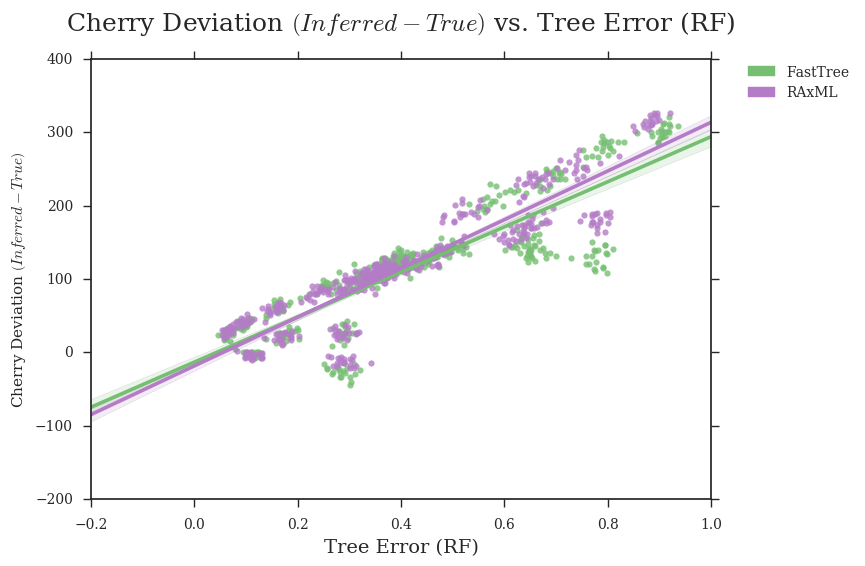
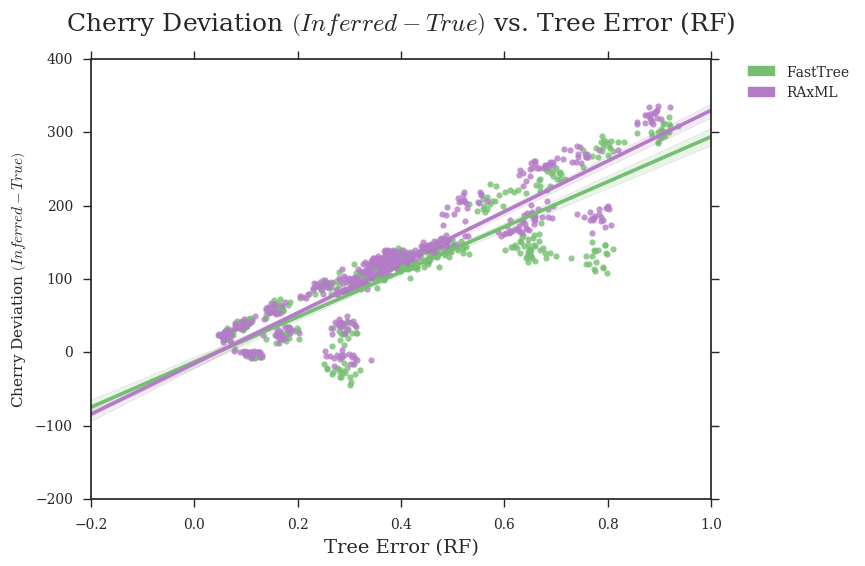
Update figure using RAxML trees with support

Changed region(s): [[0.2497, 0.1802, 0.8428, 0.6608], [0.1561, 0.6307, 0.2497, 0.6908], [0.1249, 0.6908, 0.1561, 0.7208]]

diff --git a/figures/scripts/4_cherry-deviation-vs-tree-error-rf.py b/figures/scripts/4_cherry-deviation-vs-tree-error-rf.py
@@ -20,13 +20,22 @@ handles = [Patch(color=pal['fasttree'],label='FastTree'),Patch(color=pal['raxml'
 
 # DATASETS
 rf_fasttree    = [0.37315,0.39425,0.37025,0.3995,0.4079,0.3756,0.395,0.3726,0.37335,0.35715,0.38635,0.4065,0.3545,0.37955,0.34945,0.3971,0.38635,0.3948,0.3593,0.3653,0.102,0.1193,0.11625,0.10025,0.1028,0.13035,0.1124,0.10325,0.0782,0.0948,0.1223,0.1173,0.1114,0.12385,0.11125,0.11785,0.0995,0.1203,0.12805,0.0998,0.15855,0.16415,0.16615,0.18365,0.1981,0.1724,0.1644,0.1391,0.17215,0.1997,0.18295,0.17725,0.17055,0.1594,0.2023,0.18245,0.1941,0.17,0.18195,0.177,0.66145,0.667,0.6911,0.6876,0.7166,0.69355,0.70735,0.69375,0.70215,0.6688,0.6801,0.7001,0.7065,0.68185,0.66885,0.7098,0.66965,0.75175,0.70865,0.68265,0.897,0.905025,0.92072,0.905995,0.909815,0.88575,0.91898,0.90547,0.91822,0.8837,0.901105,0.93532,0.8977,0.90765,0.915855,0.91843,0.90247,0.91111,0.910415,0.8968,0.3631,0.318,0.32665,0.33285,0.3579,0.3499,0.342,0.33565,0.3009,0.3571,0.3089,0.3671,0.34285,0.321,0.3079,0.3159,0.2959,0.322,0.3009,0.32265,0.331,0.36275,0.31375,0.338,0.3082,0.32075,0.31345,0.2801,0.33665,0.33755,0.36145,0.328,0.3285,0.334,0.31575,0.34255,0.32045,0.35755,0.325,0.3024,0.525,0.5309,0.48125,0.5103,0.4868,0.51635,0.49665,0.5192,0.4519,0.49315,0.4857,0.474,0.4684,0.4994,0.4765,0.50275,0.4598,0.49255,0.49445,0.45015,0.65965,0.66925,0.6423,0.64885,0.68815,0.651,0.68,0.65045,0.6474,0.69925,0.6665,0.6534,0.6322,0.6666,0.65965,0.6452,0.65705,0.65555,0.67875,0.6755,0.77405,0.7954,0.7778,0.7763,0.7989,0.78115,0.77405,0.7914,0.72955,0.7962,0.7691,0.79815,0.7902,0.77555,0.7581,0.7583,0.8095,0.7644,0.76895,0.79525,0.6435,0.6201,0.64675,0.6294,0.61235,0.6452,0.65055,0.63375,0.63705,0.65075,0.6253,0.64825,0.64485,0.62945,0.67165,0.6381,0.6013,0.6241,0.61605,0.65695,0.4508,0.4718,0.49245,0.46975,0.45675,0.47835,0.5194,0.4673,0.4594,0.47045,0.46545,0.45465,0.4382,0.4952,0.44265,0.4987,0.49975,0.50905,0.501,0.45685,0.2457,0.24585,0.2446,0.24895,0.2743,0.25525,0.2337,0.2051,0.26905,0.24525,0.28045,0.24735,0.2508,0.26545,0.2578,0.26125,0.2223,0.2739,0.2548,0.2594,0.1385,0.13835,0.1534,0.1534,0.15855,0.18105,0.1674,0.1634,0.1654,0.1846,0.1694,0.1624,0.16005,0.1671,0.16055,0.15095,0.1714,0.1595,0.1725,0.1625,0.10725,0.10825,0.1063,0.10625,0.0903,0.0943,0.0893,0.0903,0.11225,0.0903,0.0812,0.0832,0.09425,0.0953,0.08525,0.0993,0.0963,0.10425,0.1013,0.0752,0.06215,0.06015,0.0602,0.0572,0.05815,0.06015,0.0632,0.07415,0.07315,0.0461,0.0642,0.0622,0.0682,0.0682,0.0632,0.0622,0.0622,0.05515,0.06115,0.0682,0.41725,0.43145,0.4223,0.41265,0.4316,0.4441,0.42755,0.38405,0.41855,0.4183,0.44405,0.41245,0.4075,0.3714,0.4224,0.4,0.45145,0.4207,0.41735,0.396,0.4107,0.3961,0.39445,0.39655,0.4254,0.39275,0.42315,0.4045,0.4078,0.4024,0.3673,0.39365,0.39815,0.41175,0.4014,0.45175,0.43045,0.45575,0.3931,0.4191,0.3578,0.3814,0.36415,0.331,0.35295,0.41345,0.3951,0.4149,0.3967,0.3804,0.39585,0.398,0.3693,0.4057,0.3632,0.3576,0.38825,0.4029,0.38875,0.3983,0.3605,0.3683,0.38515,0.35425,0.39505,0.3646,0.33185,0.38665,0.39235,0.3704,0.42215,0.3831,0.3638,0.40885,0.36685,0.418,0.34975,0.35415,0.3489,0.3556,0.4001,0.37855,0.36955,0.4024,0.37725,0.38615,0.35245,0.3933,0.3942,0.3745,0.38445,0.3762,0.39205,0.37115,0.4006,0.38395,0.38695,0.368,0.38755,0.36195,0.2575,0.25035,0.28145,0.32125,0.2951,0.30835,0.27525,0.3011,0.26855,0.2879,0.30305,0.28135,0.2904,0.31105,0.267,0.29065,0.30185,0.28325,0.28025,0.257,0.26925,0.28035,0.29195,0.29485,0.289,0.2834,0.2664,0.29245,0.29715,0.30455,0.28255,0.2912,0.2964,0.2895,0.3083,0.3139,0.29035,0.31225,0.28495,0.28515,0.53135,0.56625,0.5725,0.58325,0.6014,0.57525,0.5713,0.5811,0.6106,0.62735,0.64245,0.54615,0.55945,0.5974,0.56325,0.6185,0.56005,0.58875,0.56725,0.5586,0.7904,0.8324,0.75215,0.7813,0.85645,0.8054,0.7884,0.7934,0.8074,0.8104,0.8195,0.7864,0.7773,0.7894,0.8023,0.7994,0.7934,0.7702,0.7573,0.8012]
+rf_raxml       = [0.334,0.3579,0.3529,0.37695,0.3691,0.3671,0.3811,0.3661,0.34385,0.339,0.3681,0.3872,0.336,0.3691,0.335,0.38295,0.3569,0.39,0.34285,0.3619,0.09925,0.11025,0.10925,0.09725,0.10125,0.12735,0.11025,0.10125,0.0762,0.08925,0.1223,0.11425,0.10725,0.12735,0.11625,0.11025,0.0993,0.1243,0.13135,0.09525,0.1634,0.1594,0.1594,0.17545,0.1855,0.1674,0.1654,0.1334,0.1604,0.1895,0.17995,0.1714,0.1594,0.1554,0.2035,0.1664,0.1845,0.1654,0.1815,0.17645,0.6286,0.6359,0.6306,0.668,0.6901,0.674,0.663,0.659,0.651,0.6496,0.657,0.65965,0.678,0.6489,0.6419,0.682,0.6369,0.6951,0.6881,0.653,0.8576,0.8917,0.8887,0.8877,0.8826,0.8716,0.90271,0.8947,0.8957,0.8566,0.8816,0.91976,0.8837,0.8857,0.8927,0.8977,0.8826,0.8806,0.8756,0.8726,0.336,0.2999,0.2899,0.31575,0.32585,0.3198,0.3049,0.3079,0.2909,0.344,0.3129,0.337,0.33185,0.2949,0.2738,0.3139,0.2788,0.2869,0.2869,0.335,0.2929,0.342,0.2807,0.30775,0.2859,0.2827,0.2757,0.2648,0.3009,0.29175,0.317,0.3109,0.30275,0.324,0.28575,0.31475,0.29975,0.31175,0.2879,0.26465,0.5236,0.53035,0.4822,0.48725,0.4762,0.5243,0.4774,0.5055,0.4403,0.4895,0.4744,0.45065,0.45815,0.4875,0.4684,0.48725,0.4431,0.4654,0.4814,0.45115,0.65865,0.673,0.6439,0.658,0.6941,0.657,0.6931,0.65965,0.651,0.6841,0.65565,0.65815,0.6356,0.66465,0.654,0.6339,0.6379,0.651,0.68475,0.6827,0.78245,0.8014,0.7723,0.7549,0.7944,0.7649,0.7703,0.7864,0.74035,0.798,0.784,0.7964,0.8064,0.7914,0.7734,0.7659,0.802,0.787,0.7699,0.77595,0.6309,0.5938,0.6419,0.6105,0.5998,0.6286,0.6349,0.62055,0.6399,0.6436,0.611,0.6155,0.6486,0.6105,0.651,0.6095,0.5878,0.6035,0.6058,0.6266,0.4363,0.4604,0.4564,0.4491,0.4351,0.4634,0.4875,0.45015,0.4343,0.4524,0.4383,0.4323,0.4423,0.4845,0.4263,0.4694,0.4664,0.49125,0.4855,0.4351,0.2297,0.2326,0.2297,0.2317,0.25765,0.2436,0.2165,0.2105,0.2497,0.2406,0.2528,0.2347,0.2207,0.2487,0.2407,0.2476,0.2046,0.25765,0.2367,0.2407,0.1173,0.13535,0.14335,0.14935,0.13935,0.1704,0.1554,0.1574,0.1544,0.1755,0.1554,0.14735,0.1484,0.1535,0.14735,0.13935,0.1654,0.1434,0.1595,0.1454,0.09625,0.10025,0.1013,0.10825,0.0873,0.0893,0.0923,0.0873,0.11225,0.0792,0.0782,0.0792,0.08425,0.0812,0.0782,0.0943,0.0933,0.09625,0.0933,0.07015,0.06415,0.05515,0.0552,0.0512,0.05615,0.05715,0.0622,0.06415,0.06815,0.0481,0.0572,0.0582,0.0672,0.0692,0.0582,0.0582,0.0562,0.0481,0.06415,0.0612,0.3831,0.4213,0.392,0.3771,0.4032,0.4132,0.4112,0.3669,0.3952,0.395,0.411,0.3771,0.37795,0.3529,0.4052,0.393,0.4112,0.4112,0.3721,0.3751,0.385,0.37695,0.387,0.392,0.4032,0.3842,0.3922,0.3719,0.37895,0.3811,0.3591,0.3711,0.38345,0.3761,0.3691,0.4092,0.3872,0.4193,0.38095,0.3801,0.339,0.3679,0.344,0.33,0.33685,0.3902,0.3709,0.3852,0.3741,0.3529,0.3639,0.3872,0.3629,0.3942,0.34,0.33085,0.3731,0.3591,0.3609,0.3601,0.332,0.3509,0.37595,0.32685,0.3681,0.3519,0.3228,0.3791,0.3621,0.3509,0.396,0.3629,0.3521,0.37595,0.3541,0.384,0.342,0.335,0.33585,0.33285,0.3842,0.3531,0.3561,0.386,0.3501,0.3709,0.3501,0.3751,0.3761,0.3711,0.3579,0.3531,0.3591,0.346,0.3831,0.3761,0.348,0.34585,0.3721,0.33285,0.25565,0.25265,0.27065,0.34285,0.29975,0.30675,0.28375,0.31175,0.26965,0.28875,0.30675,0.28675,0.28575,0.31575,0.2827,0.30575,0.30175,0.2757,0.2817,0.26165,0.2767,0.2827,0.28675,0.29575,0.28975,0.2797,0.26465,0.28675,0.29675,0.29675,0.26565,0.28575,0.30775,0.27165,0.31375,0.31075,0.28575,0.30275,0.2817,0.2797,0.4895,0.5216,0.5276,0.5193,0.5557,0.51025,0.5256,0.5125,0.5496,0.5557,0.5664,0.4865,0.5226,0.5517,0.5165,0.5527,0.5085,0.5216,0.5035,0.4794,0.7262,0.7603,0.6861,0.7422,0.8195,0.7482,0.7161,0.7422,0.7613,0.7563,0.7462,0.7131,0.7021,0.7302,0.7823,0.7583,0.7402,0.6951,0.679,0.7392]
+''' # VALUES FROM ORIGINAL RAXML TREES
 rf_raxml       = [0.335,0.34185,0.3509,0.3689,0.3701,0.3661,0.3751,0.3611,0.34485,0.34,0.3541,0.3862,0.341,0.3671,0.329,0.388,0.3499,0.399,0.34685,0.3619,0.10825,0.11525,0.11025,0.09825,0.10025,0.13035,0.11525,0.11125,0.0832,0.09725,0.1243,0.10425,0.10925,0.13035,0.12835,0.11225,0.1083,0.12835,0.12935,0.09725,0.1704,0.1654,0.1614,0.1875,0.17645,0.1704,0.17545,0.1354,0.1644,0.1865,0.185,0.1684,0.1654,0.1544,0.2035,0.1574,0.1875,0.1724,0.1896,0.1875,0.62255,0.6379,0.6256,0.662,0.674,0.655,0.6499,0.66,0.652,0.6376,0.659,0.6486,0.673,0.6429,0.6359,0.68,0.6279,0.6941,0.6851,0.6469,0.8495,0.8957,0.8847,0.8847,0.8867,0.8676,0.8997,0.8937,0.8907,0.8536,0.8826,0.91976,0.8786,0.8857,0.8897,0.8947,0.8806,0.8816,0.8706,0.8716,0.336,0.2969,0.2959,0.3198,0.31575,0.3178,0.3089,0.3119,0.2989,0.348,0.3139,0.333,0.33385,0.3049,0.2758,0.3099,0.2869,0.2919,0.2859,0.344,0.2989,0.348,0.28875,0.30375,0.2919,0.29075,0.2807,0.2678,0.2889,0.29475,0.322,0.32,0.30875,0.323,0.28475,0.30975,0.30275,0.31175,0.2818,0.27265,0.5155,0.5203,0.4762,0.4812,0.46315,0.5213,0.4604,0.4945,0.4323,0.4724,0.4714,0.4446,0.46215,0.4694,0.4524,0.48925,0.4311,0.4724,0.4814,0.4461,0.65265,0.672,0.6389,0.652,0.6941,0.652,0.6861,0.65665,0.6449,0.681,0.6406,0.66315,0.6336,0.65465,0.6469,0.6239,0.6389,0.6449,0.6807,0.67465,0.77845,0.8044,0.7683,0.7549,0.7954,0.7709,0.7803,0.7803,0.74735,0.796,0.786,0.7964,0.8014,0.7854,0.7704,0.7699,0.805,0.77995,0.7689,0.77595,0.6279,0.5898,0.6369,0.6085,0.5988,0.62255,0.6319,0.6075,0.6379,0.6446,0.611,0.61655,0.6426,0.6145,0.651,0.6085,0.5807,0.5975,0.5988,0.61655,0.4343,0.4504,0.4544,0.4381,0.4361,0.4604,0.4704,0.4431,0.4243,0.4393,0.4433,0.4293,0.4393,0.4865,0.4233,0.4684,0.4554,0.4792,0.4855,0.4301,0.2247,0.2316,0.2377,0.2287,0.25965,0.2406,0.21755,0.2165,0.2578,0.2336,0.2367,0.2377,0.2237,0.2588,0.2518,0.2476,0.2056,0.2486,0.2427,0.2297,0.13035,0.13735,0.14635,0.1564,0.14235,0.1714,0.1644,0.1644,0.1674,0.1735,0.1614,0.1584,0.1464,0.1615,0.1584,0.14035,0.1684,0.1434,0.1605,0.1464,0.10125,0.10125,0.0983,0.10925,0.0903,0.0983,0.0913,0.0923,0.11625,0.0863,0.08825,0.09025,0.09425,0.0903,0.0832,0.1013,0.1033,0.09725,0.1003,0.07415,0.06915,0.06415,0.0582,0.0572,0.05315,0.06515,0.0692,0.06715,0.0802,0.0542,0.0692,0.0672,0.0722,0.0752,0.0612,0.0622,0.0662,0.05715,0.0752,0.0692,0.3751,0.4112,0.385,0.3912,0.3912,0.4102,0.4142,0.3539,0.3882,0.386,0.405,0.3751,0.386,0.34585,0.4042,0.39,0.4092,0.4052,0.3641,0.3671,0.3749,0.3609,0.38195,0.393,0.4092,0.3761,0.3852,0.3649,0.3749,0.3831,0.3591,0.3801,0.38345,0.3701,0.3621,0.4042,0.3892,0.4183,0.37595,0.3721,0.345,0.3599,0.332,0.336,0.34285,0.3831,0.3729,0.3852,0.3641,0.3539,0.3669,0.3741,0.3549,0.3831,0.337,0.33385,0.3661,0.3601,0.3659,0.3611,0.326,0.33985,0.3669,0.32785,0.3651,0.34685,0.32785,0.3711,0.3671,0.33885,0.385,0.3499,0.344,0.37795,0.3631,0.3699,0.346,0.322,0.33585,0.3238,0.3771,0.3551,0.347,0.37995,0.3521,0.3689,0.3641,0.3561,0.3761,0.3721,0.3519,0.3571,0.3521,0.344,0.3731,0.3691,0.344,0.34885,0.3611,0.33385,0.26465,0.25865,0.2767,0.34285,0.30675,0.30175,0.2827,0.30575,0.2767,0.28875,0.31375,0.28875,0.28375,0.30975,0.28975,0.30175,0.30175,0.2787,0.2827,0.26865,0.26965,0.28575,0.29175,0.29175,0.29475,0.27365,0.26265,0.2777,0.29075,0.29675,0.2757,0.2787,0.31275,0.27165,0.31375,0.29875,0.28775,0.3178,0.2787,0.27165,0.4835,0.5145,0.5246,0.5183,0.5507,0.50525,0.5346,0.5125,0.5406,0.5537,0.5674,0.4814,0.5176,0.5496,0.5206,0.5486,0.5035,0.5176,0.5025,0.4784,0.7252,0.7583,0.678,0.7392,0.8215,0.7402,0.7021,0.7432,0.7513,0.7593,0.7442,0.7172,0.7081,0.7352,0.7854,0.7543,0.7392,0.6861,0.666,0.7392]
+'''
 
 ratio_fasttree = [2.36363636364,2.24175824176,2.4,2.43181818182,2.47674418605,2.4,2.4,2.15384615385,2.25,2.09574468085,2.6,2.51724137931,2.0,2.39534883721,2.05,2.46590909091,2.40659340659,2.30769230769,2.18367346939,2.18888888889,0.984894259819,0.996932515337,0.97619047619,0.994117647059,1.0,0.981981981982,0.994202898551,0.996932515337,1.01488095238,1.00304878049,1.00313479624,0.994047619048,1.00306748466,1.0,1.0,0.975903614458,0.994029850746,1.00302114804,0.98125,1.0,1.05652173913,1.10084033613,1.08849557522,1.08154506438,1.14666666667,1.100456621,1.12037037037,1.08219178082,1.09777777778,1.13574660633,1.15668202765,1.07142857143,1.12107623318,1.11415525114,1.08108108108,1.14155251142,1.13615023474,1.08,1.11111111111,1.1135371179,7.90909090909,9.39285714286,10.4230769231,8.56666666667,10.48,8.96774193548,8.18181818182,9.60714285714,8.375,8.8275862069,9.92857142857,9.65517241379,10.8,9.22222222222,8.86666666667,8.83870967742,7.875,10.3703703704,10.1111111111,10.1481481481,21.4285714286,25.6666666667,45.0,30.4,32.3,25.5833333333,39.875,31.2,41.125,26.0,21.8571428571,45.1428571429,23.0769230769,35.6666666667,38.75,38.5,31.4,34.3333333333,33.7777777778,28.2727272727,2.44318181818,2.15909090909,2.17582417582,1.94897959184,2.27906976744,2.11111111111,2.08163265306,1.99056603774,1.96875,2.21686746988,1.88541666667,2.43373493976,2.1724137931,1.9387755102,1.86734693878,2.09473684211,2.0,1.89583333333,1.87128712871,1.97826086957,2.01030927835,2.48235294118,2.17391304348,2.33333333333,2.42857142857,2.18085106383,1.91666666667,1.94845360825,2.06818181818,2.11827956989,2.425,2.02040816327,2.01052631579,2.1978021978,1.9,2.10989010989,2.2183908046,2.29885057471,2.07777777778,1.98979591837,2.57142857143,2.50561797753,2.52222222222,2.70731707317,2.46808510638,2.92405063291,2.69135802469,2.52808988764,2.46739130435,2.51648351648,2.47777777778,2.24731182796,2.37894736842,2.57608695652,2.5,2.52127659574,2.49450549451,2.44444444444,2.63953488372,2.35106382979,2.64772727273,2.57303370787,2.43820224719,2.55172413793,2.52808988764,2.51724137931,2.43820224719,2.63953488372,2.61176470588,2.51724137931,2.6170212766,2.53571428571,2.80722891566,2.89411764706,2.4880952381,2.41379310345,2.6976744186,2.85714285714,2.6265060241,2.59550561798,2.57303370787,2.55319148936,2.32258064516,2.48387096774,2.125,2.54444444444,2.14141414141,2.20833333333,2.43820224719,2.53409090909,2.51724137931,2.69620253165,2.19791666667,2.15625,2.38947368421,2.375,2.74074074074,2.30107526882,2.77647058824,2.61538461538,2.41935483871,2.61538461538,2.60869565217,2.67032967033,2.58888888889,2.55681818182,2.32,2.80459770115,2.79775280899,2.57303370787,2.96470588235,2.4387755102,2.77011494253,2.58139534884,3.04651162791,2.64772727273,2.57954545455,2.51063829787,2.57142857143,2.81818181818,2.43023255814,2.54022988506,2.69047619048,2.42857142857,2.40217391304,2.79310344828,2.48421052632,2.55913978495,2.70731707317,2.55555555556,2.4,2.36263736264,2.42857142857,2.61797752809,2.63095238095,2.86585365854,2.52083333333,2.69411764706,2.55913978495,2.34736842105,1.96590909091,2.04651162791,2.02272727273,2.2375,2.03191489362,2.0,1.83333333333,1.77894736842,2.03296703297,1.9347826087,2.375,2.0,2.02222222222,1.78431372549,2.08333333333,2.0,1.81443298969,1.94444444444,2.07865168539,2.10465116279,1.64556962025,1.5,1.75,1.77173913043,1.64772727273,1.67368421053,1.64,1.59574468085,1.8488372093,1.79310344828,1.71428571429,1.70786516854,1.61,1.64444444444,1.57731958763,1.65555555556,1.64367816092,1.71276595745,1.69879518072,1.58241758242,1.55952380952,1.44086021505,1.44565217391,1.44210526316,1.37362637363,1.39772727273,1.45652173913,1.34408602151,1.52325581395,1.44705882353,1.34736842105,1.47777777778,1.37804878049,1.44047619048,1.36170212766,1.35353535354,1.48837209302,1.58441558442,1.37894736842,1.24210526316,1.35897435897,1.3152173913,1.18947368421,1.25287356322,1.18085106383,1.34523809524,1.27659574468,1.31818181818,1.36904761905,1.24742268041,1.3488372093,1.25301204819,1.27835051546,1.18390804598,1.33673469388,1.18556701031,1.23529411765,1.3,1.30769230769,1.3875,2.30107526882,2.38636363636,2.27472527473,2.23655913978,2.2808988764,2.55,2.3488372093,2.35164835165,2.38095238095,2.39534883721,2.25806451613,2.48913043478,2.10576923077,2.31578947368,2.53409090909,2.57303370787,2.30107526882,2.57142857143,2.05208333333,2.44444444444,2.47058823529,2.26086956522,2.4578313253,2.25842696629,2.54320987654,2.19587628866,2.32978723404,2.22105263158,2.27173913043,2.27083333333,2.13333333333,2.44186046512,2.37037037037,2.41176470588,2.47674418605,2.45977011494,2.23157894737,2.55681818182,2.40909090909,2.59036144578,2.2688172043,2.35294117647,2.39130434783,2.15384615385,2.16666666667,2.39024390244,2.6511627907,2.49411764706,2.91666666667,2.31868131868,2.43820224719,2.47126436782,2.20618556701,2.58974358974,2.20212765957,2.34482758621,2.37362637363,2.5,2.71052631579,2.31034482759,2.2,2.37209302326,2.47191011236,2.27777777778,2.34523809524,2.42528735632,2.24390243902,2.27173913043,2.34523809524,2.32954545455,2.50561797753,2.38461538462,2.37777777778,2.25263157895,2.33695652174,2.77333333333,2.25274725275,2.0404040404,2.34444444444,2.15789473684,2.3,2.44186046512,2.62025316456,2.30769230769,2.42168674699,2.41666666667,2.34482758621,2.3595505618,2.4347826087,2.24175824176,2.26804123711,2.26373626374,2.375,2.26041666667,2.44086021505,2.20618556701,2.43820224719,1.92452830189,2.44578313253,2.27906976744,0.931547619048,0.949843260188,0.903225806452,0.92899408284,0.932307692308,0.950464396285,0.935975609756,0.895061728395,0.917431192661,0.926035502959,0.877976190476,0.918181818182,0.952978056426,0.910714285714,0.90990990991,0.917159763314,0.867469879518,0.898203592814,0.933717579251,0.936555891239,1.15,1.125,1.15021459227,1.19111111111,1.04310344828,1.11764705882,1.0407239819,1.11659192825,1.08482142857,1.11304347826,1.07264957265,1.12385321101,1.13043478261,1.17431192661,1.16740088106,1.11894273128,1.11013215859,1.11255411255,1.17040358744,1.11415525114,6.61111111111,6.88888888889,6.61111111111,8.56666666667,9.42307692308,9.28,7.76470588235,7.46875,8.12903225806,8.4,9.34615384615,7.43333333333,7.53125,7.0303030303,6.81818181818,9.72,6.71428571429,8.41379310345,6.41666666667,7.125,24.3333333333,36.875,31.6666666667,30.5555555556,30.9,26.2727272727,27.8181818182,27.0,29.8,28.5,32.8888888889,27.0909090909,26.3636363636,26.0,32.3333333333,32.8888888889,42.2857142857,20.1428571429,25.1818181818,30.8888888889]
+ratio_raxml    = [2.26136363636,2.36263736264,2.33333333333,2.44318181818,2.45348837209,2.53333333333,2.38888888889,2.10989010989,2.27173913043,2.21276595745,2.57647058824,2.58620689655,2.23863636364,2.39534883721,2.11,2.40909090909,2.2967032967,2.2967032967,2.21428571429,2.22222222222,1.0,0.98773006135,0.982142857143,0.988235294118,0.994252873563,0.978978978979,0.994202898551,1.00306748466,1.00595238095,1.0,1.00313479624,0.988095238095,1.0,1.0,1.00606060606,0.975903614458,1.0,0.996978851964,0.990625,1.00607902736,1.05652173913,1.10924369748,1.09734513274,1.08583690987,1.14666666667,1.10502283105,1.11574074074,1.1095890411,1.09777777778,1.13574660633,1.16129032258,1.08035714286,1.14349775785,1.10502283105,1.11711711712,1.13242009132,1.12676056338,1.08,1.13777777778,1.14847161572,8.33333333333,9.75,10.5384615385,9.36666666667,11.32,9.09677419355,8.60606060606,10.1785714286,9.0625,9.31034482759,10.3214285714,10.0,11.24,10.2592592593,8.8,9.25806451613,8.09375,10.5925925926,10.6296296296,10.2962962963,23.4285714286,28.25,47.5714285714,32.2,33.0,27.0833333333,40.75,32.9,42.375,27.0,24.2142857143,48.8571428571,25.1538461538,36.1111111111,42.125,43.0,32.9,38.1111111111,36.8888888889,30.3636363636,2.29545454545,2.125,2.14285714286,1.94897959184,2.11627906977,2.03333333333,1.97959183673,1.93396226415,1.90625,2.21686746988,1.90625,2.36144578313,2.09195402299,1.85714285714,1.81632653061,2.07368421053,1.92941176471,1.85416666667,1.84158415842,1.9347826087,1.98969072165,2.42352941176,2.09782608696,2.1724137931,2.34523809524,2.04255319149,1.89583333333,1.98969072165,1.98863636364,2.08602150538,2.4125,2.01020408163,2.05263157895,2.18681318681,1.84,2.12087912088,2.1724137931,2.18390804598,2.05555555556,1.90816326531,2.74725274725,2.77528089888,2.92222222222,2.79268292683,2.63829787234,3.26582278481,2.79012345679,2.66292134831,2.5652173913,2.62637362637,2.58888888889,2.55913978495,2.55789473684,2.73913043478,2.5625,2.6170212766,2.64835164835,2.52222222222,2.81395348837,2.55319148936,3.11363636364,3.07865168539,3.13483146067,3.13793103448,3.24719101124,3.06896551724,3.05617977528,3.10465116279,3.21176470588,3.11494252874,2.96808510638,3.08333333333,3.1686746988,3.29411764706,3.27380952381,3.04597701149,3.17441860465,3.39285714286,3.36144578313,3.31460674157,3.20224719101,3.1170212766,2.93548387097,2.98924731183,2.78125,3.0,2.64646464646,2.91666666667,3.11235955056,3.25,3.16091954023,3.49367088608,2.8125,2.88541666667,2.92631578947,3.17045454545,3.40740740741,2.9247311828,3.15294117647,3.04395604396,2.76344086022,2.74725274725,2.84782608696,2.81318681319,2.8,2.95454545455,2.64,2.93103448276,2.96629213483,2.88764044944,3.11764705882,2.68367346939,2.91954022989,2.90697674419,3.17441860465,2.85227272727,2.86363636364,2.73404255319,2.89010989011,2.90909090909,2.59302325581,2.58620689655,2.7380952381,2.53846153846,2.48913043478,2.74712643678,2.51578947368,2.55913978495,2.67073170732,2.54444444444,2.52631578947,2.40659340659,2.57142857143,2.7191011236,2.66666666667,2.84146341463,2.5,2.8,2.63440860215,2.41052631579,2.0,2.03488372093,1.96590909091,2.1875,2.01063829787,2.05494505495,1.77083333333,1.78947368421,2.02197802198,1.96739130435,2.225,2.02197802198,1.88888888889,1.78431372549,2.09523809524,1.98863636364,1.79381443299,1.98888888889,2.03370786517,2.05813953488,1.62025316456,1.48936170213,1.67045454545,1.72826086957,1.65909090909,1.66315789474,1.65,1.55319148936,1.76744186047,1.79310344828,1.64285714286,1.67415730337,1.55,1.62222222222,1.56701030928,1.67777777778,1.6091954023,1.65957446809,1.66265060241,1.59340659341,1.53571428571,1.39784946237,1.41304347826,1.42105263158,1.38461538462,1.375,1.46739130435,1.36559139785,1.5,1.43529411765,1.34736842105,1.44444444444,1.41463414634,1.42857142857,1.35106382979,1.32323232323,1.44186046512,1.53246753247,1.36842105263,1.24210526316,1.33333333333,1.27173913043,1.14736842105,1.25287356322,1.1914893617,1.30952380952,1.26595744681,1.29545454545,1.34523809524,1.25773195876,1.31395348837,1.21686746988,1.25773195876,1.19540229885,1.28571428571,1.18556701031,1.21176470588,1.2875,1.32967032967,1.3625,2.41935483871,2.44318181818,2.40659340659,2.23655913978,2.4606741573,2.675,2.43023255814,2.32967032967,2.5,2.5,2.31182795699,2.45652173913,2.01923076923,2.29473684211,2.53409090909,2.5393258427,2.37634408602,2.54761904762,2.11458333333,2.3,2.50588235294,2.28260869565,2.44578313253,2.39325842697,2.71604938272,2.35051546392,2.3085106383,2.26315789474,2.22826086957,2.30208333333,2.32222222222,2.53488372093,2.61728395062,2.38823529412,2.62790697674,2.54022988506,2.36842105263,2.55681818182,2.44318181818,2.56626506024,2.29032258065,2.45882352941,2.36956521739,2.35164835165,2.2,2.41463414634,2.59302325581,2.50588235294,2.94444444444,2.36263736264,2.44943820225,2.57471264368,2.25773195876,2.66666666667,2.15957446809,2.28735632184,2.40659340659,2.39772727273,2.65789473684,2.29885057471,2.14736842105,2.44186046512,2.55056179775,2.33333333333,2.42857142857,2.37931034483,2.34146341463,2.3152173913,2.35714285714,2.42045454545,2.50561797753,2.41758241758,2.41111111111,2.23157894737,2.39130434783,2.85333333333,2.36263736264,2.11111111111,2.23333333333,2.26315789474,2.42222222222,2.43023255814,2.6582278481,2.37362637363,2.43373493976,2.61904761905,2.41379310345,2.37078651685,2.38043478261,2.23076923077,2.26804123711,2.31868131868,2.39772727273,2.34375,2.4623655914,2.19587628866,2.44943820225,2.01886792453,2.40963855422,2.25581395349,0.985119047619,1.00626959248,0.947214076246,0.967455621302,0.993846153846,0.987616099071,0.987804878049,0.975308641975,0.975535168196,0.991124260355,0.952380952381,0.981818181818,1.00940438871,0.967261904762,0.981981981982,0.979289940828,0.951807228916,0.991017964072,0.974063400576,0.984894259819,1.17272727273,1.14655172414,1.17167381974,1.21777777778,1.11637931034,1.16742081448,1.14932126697,1.16591928251,1.14285714286,1.18260869565,1.10683760684,1.18348623853,1.18695652174,1.19266055046,1.15418502203,1.16299559471,1.15859030837,1.17316017316,1.18834080717,1.20547945205,6.5,6.77777777778,6.47222222222,8.13333333333,9.30769230769,9.4,7.0,7.40625,7.61290322581,8.13333333333,8.96153846154,7.23333333333,7.84375,7.15151515152,7.24242424242,9.72,6.57142857143,8.13793103448,6.22222222222,6.875,24.0,34.75,29.1111111111,31.1111111111,28.6,24.4545454545,26.1818181818,25.2727272727,27.6,28.0,32.1111111111,25.0,25.0909090909,24.6363636364,31.6666666667,30.5555555556,41.2857142857,19.2142857143,24.0909090909,29.8888888889]
+''' # VALUES FROM ORIGINAL RAXML TREES
 ratio_raxml    = [2.19318181818,2.08791208791,2.21111111111,2.19318181818,2.29069767442,2.17777777778,2.32222222222,2.08791208791,2.0652173913,2.1170212766,2.41176470588,2.50574712644,2.18181818182,2.31395348837,1.85,2.23863636364,2.23076923077,2.23076923077,2.02040816327,2.1,0.993957703927,0.978527607362,0.973214285714,0.976470588235,1.0,0.975975975976,0.994202898551,0.981595092025,1.00595238095,0.981707317073,0.993730407524,0.979166666667,0.990797546012,0.996941896024,0.99696969697,0.969879518072,1.0,0.993957703927,0.975,0.996960486322,1.04347826087,1.0756302521,1.0796460177,1.07296137339,1.12444444444,1.09132420091,1.12037037037,1.08675799087,1.07555555556,1.08597285068,1.11059907834,1.05803571429,1.12107623318,1.07762557078,1.0990990991,1.11415525114,1.10328638498,1.05333333333,1.12888888889,1.11790393013,7.90909090909,9.17857142857,10.0769230769,8.7,9.96,8.32258064516,8.0303030303,9.60714285714,8.5,8.31034482759,9.75,9.44827586207,10.56,9.55555555556,8.1,8.83870967742,7.40625,9.77777777778,10.037037037,9.85185185185,23.0714285714,27.8333333333,46.7142857143,32.0,32.3,26.9166666667,40.625,32.5,41.5,26.1666666667,23.5714285714,47.7142857143,24.3846153846,35.5555555556,41.875,41.75,32.0,36.8888888889,35.1111111111,29.6363636364,2.27272727273,2.11363636364,2.08791208791,1.88775510204,2.12790697674,2.03333333333,1.97959183673,1.96226415094,1.97916666667,2.21686746988,1.875,2.22891566265,2.09195402299,1.87755102041,1.80612244898,2.04210526316,2.0,1.89583333333,1.79207920792,1.95652173913,2.01030927835,2.4,2.07608695652,2.11494252874,2.2619047619,2.04255319149,1.91666666667,1.9175257732,1.97727272727,1.98924731183,2.35,1.97959183673,2.05263157895,2.14285714286,1.86,2.07692307692,2.16091954023,2.27586206897,1.91111111111,1.97959183673,2.64835164835,2.6404494382,2.62222222222,2.63414634146,2.37234042553,3.0,2.45679012346,2.5393258427,2.34782608696,2.31868131868,2.31111111111,2.43010752688,2.35789473684,2.5652173913,2.32291666667,2.54255319149,2.47252747253,2.32222222222,2.56976744186,2.35106382979,3.06818181818,2.98876404494,2.95505617978,3.01149425287,3.21348314607,2.95402298851,3.0,2.96511627907,3.09411764706,3.03448275862,2.82978723404,3.03571428571,3.0843373494,3.2,3.09523809524,2.97701149425,2.97674418605,3.22619047619,3.1686746988,3.15730337079,3.13483146067,3.04255319149,2.87096774194,3.01075268817,2.70833333333,2.97777777778,2.64646464646,2.80208333333,3.01123595506,3.15909090909,3.09195402299,3.36708860759,2.83333333333,2.85416666667,2.87368421053,3.13636363636,3.27160493827,2.82795698925,3.18823529412,3.06593406593,2.74193548387,2.69230769231,2.79347826087,2.6043956044,2.66666666667,2.72727272727,2.54,2.75862068966,2.83146067416,2.8202247191,3.04705882353,2.58163265306,2.79310344828,2.90697674419,2.97674418605,2.67045454545,2.84090909091,2.6914893617,2.78021978022,2.89772727273,2.3023255814,2.47126436782,2.53571428571,2.34065934066,2.32608695652,2.54022988506,2.25263157895,2.37634408602,2.53658536585,2.31111111111,2.33684210526,2.26373626374,2.37362637363,2.52808988764,2.42857142857,2.70731707317,2.33333333333,2.58823529412,2.50537634409,2.30526315789,1.90909090909,1.79069767442,1.92045454545,2.125,1.92553191489,1.93406593407,1.77083333333,1.78947368421,1.92307692308,1.86956521739,2.125,1.87912087912,1.8,1.78431372549,2.03571428571,2.01136363636,1.70103092784,1.91111111111,1.95505617978,1.97674418605,1.77215189873,1.44680851064,1.625,1.67391304348,1.67045454545,1.61052631579,1.66,1.72340425532,1.77906976744,1.73563218391,1.67857142857,1.70786516854,1.54,1.7,1.56701030928,1.62222222222,1.72413793103,1.67021276596,1.68674698795,1.56043956044,1.61904761905,1.45161290323,1.40217391304,1.45263157895,1.46153846154,1.45454545455,1.46739130435,1.37634408602,1.52325581395,1.50588235294,1.44210526316,1.52222222222,1.56097560976,1.4880952381,1.36170212766,1.39393939394,1.54651162791,1.53246753247,1.42105263158,1.34736842105,1.4358974359,1.34782608696,1.2,1.34482758621,1.25531914894,1.38095238095,1.34042553191,1.34090909091,1.4880952381,1.31958762887,1.40697674419,1.27710843373,1.34020618557,1.29885057471,1.30612244898,1.22680412371,1.32941176471,1.375,1.41758241758,1.45,2.27956989247,2.22727272727,2.24175824176,2.15053763441,2.26966292135,2.45,2.31395348837,2.25274725275,2.30952380952,2.38372093023,2.17204301075,2.33695652174,1.98076923077,2.13684210526,2.42045454545,2.32584269663,2.34408602151,2.45238095238,2.02083333333,2.14444444444,2.34117647059,2.11956521739,2.27710843373,2.26966292135,2.6049382716,2.20618556701,2.14893617021,2.16842105263,2.11956521739,2.20833333333,2.12222222222,2.3023255814,2.32098765432,2.23529411765,2.3488372093,2.35632183908,2.2,2.36363636364,2.25,2.43373493976,2.10752688172,2.21176470588,2.22826086957,2.15384615385,2.07777777778,2.29268292683,2.36046511628,2.32941176471,2.63888888889,2.31868131868,2.43820224719,2.37931034483,2.17525773196,2.42307692308,2.07446808511,2.20689655172,2.23076923077,2.21590909091,2.43421052632,2.1724137931,1.98947368421,2.17441860465,2.3595505618,2.25555555556,2.19047619048,2.16091954023,2.24390243902,2.20652173913,2.13095238095,2.19318181818,2.37078651685,2.15384615385,2.16666666667,2.12631578947,2.20652173913,2.62666666667,2.1978021978,1.92929292929,2.13333333333,2.13684210526,2.31111111111,2.33720930233,2.49367088608,2.2967032967,2.33734939759,2.40476190476,2.22988505747,2.16853932584,2.27173913043,2.12087912088,2.14432989691,2.07692307692,2.17045454545,2.11458333333,2.24731182796,1.9793814433,2.20224719101,1.74528301887,2.33734939759,2.16279069767,0.979166666667,0.984326018809,0.944281524927,0.955621301775,0.984615384615,0.97213622291,0.97256097561,0.969135802469,0.954128440367,0.973372781065,0.943452380952,0.960606060606,0.981191222571,0.9375,0.954954954955,0.949704142012,0.933734939759,0.976047904192,0.956772334294,0.942598187311,1.10454545455,1.09051724138,1.11587982833,1.16444444444,1.07327586207,1.11312217195,1.14479638009,1.09417040359,1.11607142857,1.15217391304,1.07692307692,1.12385321101,1.10869565217,1.16513761468,1.11453744493,1.11894273128,1.08810572687,1.12121212121,1.13004484305,1.14155251142,6.19444444444,6.11111111111,6.22222222222,7.96666666667,8.65384615385,9.04,6.61764705882,6.9375,7.06451612903,7.93333333333,8.46153846154,7.13333333333,7.375,6.60606060606,6.69696969697,8.92,6.08571428571,7.51724137931,5.97222222222,6.5625,22.6666666667,32.625,27.3333333333,29.3333333333,27.8,22.5454545455,23.9090909091,24.8181818182,25.0,25.8,31.6666666667,23.5454545455,24.8181818182,23.1818181818,29.6666666667,28.8888888889,39.4285714286,17.3571428571,22.4545454545,28.5555555556]
+'''
 
 diff_fasttree  = [120,113,126,126,127,126,126,105,115,103,136,132,88,120,105,129,128,119,116,107,-5,-1,-8,-2,0,-6,-2,-1,5,1,1,-2,1,0,0,-8,-2,1,-6,0,13,24,20,19,33,22,26,18,22,30,34,16,27,25,18,31,29,18,25,26,228,235,245,227,237,247,237,241,236,227,250,251,245,222,236,243,220,253,246,247,286,296,308,294,313,295,311,302,321,300,292,309,287,312,302,300,304,300,295,300,127,102,107,93,110,100,106,105,93,101,85,119,102,92,85,104,85,86,88,90,98,126,108,116,120,111,88,92,94,104,114,100,96,109,90,101,106,113,97,97,143,134,137,140,138,152,137,136,135,138,133,116,131,145,144,143,136,130,141,127,145,140,128,135,136,132,128,141,137,132,152,129,150,161,125,123,146,156,135,142,140,146,123,138,108,139,113,116,128,135,132,134,115,111,132,121,141,121,151,147,132,147,148,152,143,137,132,157,160,140,167,141,154,136,176,145,139,142,143,160,123,134,142,130,129,156,141,145,140,140,133,124,130,144,137,153,146,144,145,128,85,90,90,99,97,91,80,74,94,86,110,91,92,80,91,88,79,85,96,95,51,47,66,71,57,64,64,56,73,69,60,63,61,58,56,59,56,67,58,53,47,41,41,42,34,35,42,32,45,38,33,43,31,37,34,35,42,45,36,23,28,29,18,22,17,29,26,28,31,24,30,21,27,16,33,18,20,24,28,31,121,122,116,115,114,124,116,123,116,120,117,137,115,125,135,140,121,132,101,130,125,116,121,112,125,116,125,116,117,122,102,124,111,120,127,127,117,137,124,132,118,115,128,105,105,114,142,127,138,120,128,128,117,124,113,117,125,132,130,114,114,118,131,115,113,124,102,117,113,117,134,126,124,119,123,133,114,103,121,110,117,124,128,119,118,119,117,121,132,113,123,115,121,121,134,117,128,98,120,110,-23,-16,-33,-24,-22,-16,-21,-34,-27,-25,-41,-27,-15,-30,-30,-28,-44,-34,-23,-21,33,29,35,43,10,26,9,26,19,26,17,27,30,38,38,27,25,26,38,25,202,212,202,227,219,207,230,207,221,222,217,193,209,199,192,218,200,215,195,196,280,287,276,266,299,278,295,286,288,275,287,287,279,275,282,287,289,268,266,269]
+diff_raxml     = [111,124,120,127,125,138,125,101,117,114,134,138,109,120,111,124,118,118,119,110,0,-4,-6,-4,-2,-7,-2,1,2,0,1,-4,0,0,2,-8,0,-1,-3,2,13,26,22,20,33,23,25,24,22,30,35,18,32,23,26,29,27,18,31,34,242,245,248,251,258,251,251,257,258,241,261,261,256,250,234,256,227,259,260,251,314,327,326,312,320,313,318,319,331,312,325,335,314,316,329,336,319,334,323,323,114,99,104,93,96,93,96,99,87,101,87,113,95,84,80,102,79,82,85,86,96,121,101,102,113,98,86,96,87,101,113,99,100,108,84,102,102,103,95,89,159,158,173,147,154,179,145,148,144,148,143,145,148,160,150,152,150,137,156,146,186,185,190,186,200,180,183,181,188,184,185,175,180,195,191,178,187,201,196,206,196,199,180,185,171,180,163,184,188,198,188,197,174,181,183,191,195,179,183,186,164,159,170,165,162,172,164,168,175,168,180,165,167,164,187,163,164,163,172,168,137,138,146,140,137,152,144,145,137,139,145,128,143,153,140,151,144,153,152,134,88,89,85,95,95,96,74,75,93,89,98,93,80,80,92,87,77,89,92,91,49,46,59,67,58,63,65,52,66,69,54,60,55,56,55,61,53,62,55,54,45,37,38,40,35,33,43,34,43,37,33,40,34,36,33,32,38,41,35,23,26,25,14,22,18,26,25,26,29,25,27,18,25,17,28,18,18,23,30,29,132,127,128,115,130,134,123,121,126,129,122,134,106,123,135,137,128,130,107,117,128,118,120,124,139,131,123,120,113,125,119,132,131,118,140,134,130,137,127,130,120,124,126,123,108,116,137,128,140,124,129,137,122,130,109,112,128,123,126,113,109,124,138,120,120,120,110,121,114,125,134,129,127,117,128,139,124,110,111,120,128,123,131,125,119,136,123,122,127,112,123,120,123,129,136,116,129,108,117,108,-5,2,-18,-11,-2,-4,-4,-8,-8,-3,-16,-6,3,-11,-6,-7,-16,-3,-9,-5,38,34,40,49,27,37,33,37,32,42,25,40,43,42,35,37,36,40,42,45,198,208,197,214,216,210,204,205,205,214,207,187,219,203,206,218,195,207,188,188,276,270,253,271,276,258,277,267,266,270,280,264,265,260,276,266,282,255,254,260]
+''' # VALUES FROM ORIGINAL RAXML TREES
 diff_raxml     = [105,99,109,105,111,106,119,99,98,105,120,131,104,113,85,109,112,112,100,99,-2,-7,-9,-8,0,-8,-2,-6,2,-6,-2,-7,-3,-1,-1,-10,0,-2,-8,-1,10,18,18,17,28,20,26,19,17,19,24,13,27,17,22,25,22,12,29,27,228,229,236,231,224,227,232,241,240,212,245,245,239,231,213,243,205,237,244,239,309,322,320,310,313,311,317,315,324,302,316,327,304,311,327,326,310,323,307,315,112,98,99,87,97,93,96,102,94,101,84,102,95,86,79,99,85,86,80,88,98,119,99,97,106,98,88,89,86,92,108,96,100,104,86,98,101,111,82,96,150,146,146,134,129,158,118,137,124,120,118,133,129,144,127,145,134,119,135,127,182,177,174,175,197,170,178,169,178,177,172,171,173,187,176,172,170,187,180,192,190,192,174,187,164,178,163,173,179,190,182,187,176,178,178,188,184,170,186,188,162,154,165,146,150,152,154,153,163,162,174,155,156,164,170,147,162,159,162,167,112,128,129,122,122,134,119,128,126,118,127,115,125,136,120,140,128,135,140,124,80,68,81,90,87,85,74,75,84,80,90,80,72,80,87,89,68,82,85,84,61,42,55,62,59,58,66,68,67,64,57,63,54,63,55,56,63,63,57,51,52,42,37,43,42,40,43,35,45,43,42,47,46,41,34,39,47,41,40,33,34,32,19,30,24,32,32,30,41,31,35,23,33,26,30,22,28,30,38,36,119,108,113,107,113,116,113,114,110,119,109,123,102,108,125,118,125,122,98,103,114,103,106,113,130,117,108,111,103,116,101,112,107,105,116,118,114,120,110,119,103,103,113,105,97,106,117,113,118,120,128,120,114,111,101,105,112,107,109,102,94,101,121,113,100,101,102,111,95,105,122,105,105,107,111,122,109,92,102,108,118,115,118,118,111,118,107,104,117,102,111,98,103,107,116,95,107,79,111,100,-7,-5,-19,-15,-5,-9,-9,-10,-15,-9,-19,-13,-6,-21,-15,-17,-22,-8,-15,-19,23,21,27,37,17,25,32,21,26,35,18,27,25,36,26,27,20,28,29,31,187,184,188,209,199,201,191,190,188,208,194,184,204,185,188,198,178,189,179,178,260,253,237,255,268,237,252,262,240,248,276,248,262,244,258,251,269,229,236,248]
+'''
 
 # store data as dataframe to make it easier to work with
 data = pd.DataFrame({'rf_fasttree':np.asarray(rf_fasttree),'ratio_fasttree':np.log10(np.asarray(ratio_fasttree)),'diff_fasttree':np.asarray(diff_fasttree),
